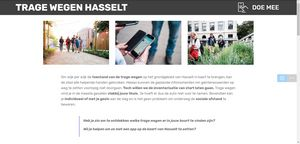
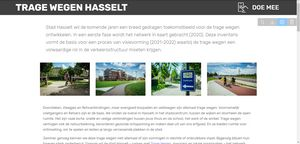
update_hokjes_18

diff --git a/index.html b/index.html
@@ -55,7 +55,7 @@
     </nav>
 </section>
 
-<section class="engine"><a href="https://mobirise.info/p">site templates free download</a></section><section class="mbr-section article content3 cid-rQbUgujYzw" id="content3-n">
+<section class="engine"><a href="https://mobirise.info/l">free website templates</a></section><section class="mbr-section article content3 cid-rQbUgujYzw" id="content3-n">
       
      
 
@@ -81,34 +81,34 @@
     <div class="container">
         
         
-        <div class="row mbr-gallery" data-toggle="modal" data-target="#s1oqM5fJw9">
+        <div class="row mbr-gallery" data-toggle="modal" data-target="#s23q5Orxsj">
             <div class="col-sm-6 col-md-4 col-lg-3 item gallery-image">
                 <div class="item-wrapper">
-                    <img class="w-100" src="assets/images/tragewegen-201908-ingedelee-199.jpg" alt="" data-slide-to="0" title="" data-target="#s1oqM5fqrZ">
+                    <img class="w-100" src="assets/images/tragewegen-201908-ingedelee-199.jpg" alt="" data-slide-to="0" title="" data-target="#s23q5OrSxY">
                 </div>
             </div>
             <div class="col-sm-6 col-md-4 col-lg-3 item gallery-image">
                 <div class="item-wrapper">
-                    <img class="w-100" src="assets/images/tragewegen-201908-ingedelee-122.jpg" alt="" data-slide-to="1" title="" data-target="#s1oqM5fqrZ">
+                    <img class="w-100" src="assets/images/tragewegen-201908-ingedelee-122.jpg" alt="" data-slide-to="1" title="" data-target="#s23q5OrSxY">
                 </div>
             </div>
             <div class="col-sm-6 col-md-4 col-lg-3 item gallery-image">
                 <div class="item-wrapper">
-                    <img class="w-100" src="assets/images/tragewegen-201908-ingedelee-131.jpg" alt="" data-slide-to="2" title="" data-target="#s1oqM5fqrZ">
+                    <img class="w-100" src="assets/images/tragewegen-201908-ingedelee-131.jpg" alt="" data-slide-to="2" title="" data-target="#s23q5OrSxY">
                 </div>
             </div><div class="col-sm-6 col-md-4 col-lg-3 item gallery-image">
                 <div class="item-wrapper">
-                    <img class="w-100" src="assets/images/tragewegen-201908-ingedelee-125.jpg" alt="" data-slide-to="3" title="" data-target="#s1oqM5fqrZ">
+                    <img class="w-100" src="assets/images/tragewegen-201908-ingedelee-125.jpg" alt="" data-slide-to="3" title="" data-target="#s23q5OrSxY">
                 </div>
             </div>
             
         </div>
 
-        <div class="modal mbr-slider fade" tabindex="-1" role="dialog" aria-hidden="true" id="s1oqM5fJw9">
+        <div class="modal mbr-slider fade" tabindex="-1" role="dialog" aria-hidden="true" id="s23q5Orxsj">
             <div class="modal-dialog" role="document">
                 <div class="modal-content">
                     <div class="modal-body">
-                        <div class="carousel slide" data-ride="carousel" id="s1oqM5fqrZ">
+                        <div class="carousel slide" data-ride="carousel" id="s23q5OrSxY">
                             <div class="carousel-inner">
                                 <div class="carousel-item active">
                                     <img class="d-block w-100" src="assets/images/tragewegen-201908-ingedelee-199.jpg" alt="">
@@ -124,18 +124,18 @@
                                 
                             </div>
                             <ol class="carousel-indicators">
-                                <li data-slide-to="0" class="active" data-target="#s1oqM5fqrZ"></li><li data-slide-to="1" class="active" data-target="#s1oqM5fqrZ"></li>
-                                <li data-slide-to="2" data-target="#s1oqM5fqrZ"></li>
-                                <li data-slide-to="3" data-target="#s1oqM5fqrZ"></li>
+                                <li data-slide-to="0" class="active" data-target="#s23q5OrSxY"></li><li data-slide-to="1" class="active" data-target="#s23q5OrSxY"></li>
+                                <li data-slide-to="2" data-target="#s23q5OrSxY"></li>
+                                <li data-slide-to="3" data-target="#s23q5OrSxY"></li>
                                 
                             </ol>
                             <a role="button" href="" class="close" data-dismiss="modal" aria-label="Close">
                             </a>
-                            <a class="carousel-control-prev carousel-control" role="button" data-slide="prev" href="#s1oqM5fqrZ">
+                            <a class="carousel-control-prev carousel-control" role="button" data-slide="prev" href="#s23q5OrSxY">
                                 <span class="mbri-left mbr-iconfont" aria-hidden="true"></span>
                                 <span class="sr-only">Vorige</span>
                             </a>
-                            <a class="carousel-control-next carousel-control" role="button" data-slide="next" href="#s1oqM5fqrZ">
+                            <a class="carousel-control-next carousel-control" role="button" data-slide="next" href="#s23q5OrSxY">
                                 <span class="mbri-right mbr-iconfont" aria-hidden="true"></span>
                                 <span class="sr-only">Volgende</span>
                             </a>
@@ -169,34 +169,34 @@
     <div class="container">
         
         
-        <div class="row mbr-gallery" data-toggle="modal" data-target="#s1oqM5gzgw">
+        <div class="row mbr-gallery" data-toggle="modal" data-target="#s23q5OsmAD">
             <div class="col-sm-6 col-md-4 col-lg-3 item gallery-image">
                 <div class="item-wrapper">
-                    <img class="w-100" src="assets/images/tragewegen-201908-ingedelee-90.jpg" alt="" data-slide-to="0" title="" data-target="#s1oqM5gt5M">
+                    <img class="w-100" src="assets/images/tragewegen-201908-ingedelee-90.jpg" alt="" data-slide-to="0" title="" data-target="#s23q5Osos9">
                 </div>
             </div><div class="col-sm-6 col-md-4 col-lg-3 item gallery-image">
                 <div class="item-wrapper">
-                    <img class="w-100" src="assets/images/tragewegen-201908-ingedelee-77.jpg" alt="" data-slide-to="1" title="" data-target="#s1oqM5gt5M">
+                    <img class="w-100" src="assets/images/tragewegen-201908-ingedelee-77.jpg" alt="" data-slide-to="1" title="" data-target="#s23q5Osos9">
                 </div>
             </div><div class="col-sm-6 col-md-4 col-lg-3 item gallery-image">
                 <div class="item-wrapper">
-                    <img class="w-100" src="assets/images/tragewegen-201908-ingedelee-170.jpg" alt="" data-slide-to="2" title="" data-target="#s1oqM5gt5M">
+                    <img class="w-100" src="assets/images/tragewegen-201908-ingedelee-170.jpg" alt="" data-slide-to="2" title="" data-target="#s23q5Osos9">
                 </div>
             </div>
             <div class="col-sm-6 col-md-4 col-lg-3 item gallery-image">
                 <div class="item-wrapper">
-                    <img class="w-100" src="assets/images/tragewegen-201908-ingedelee-163.jpg" alt="" data-slide-to="3" title="" data-target="#s1oqM5gt5M">
+                    <img class="w-100" src="assets/images/tragewegen-201908-ingedelee-163.jpg" alt="" data-slide-to="3" title="" data-target="#s23q5Osos9">
                 </div>
             </div>
             
             
         </div>
 
-        <div class="modal mbr-slider fade" tabindex="-1" role="dialog" aria-hidden="true" id="s1oqM5gzgw">
+        <div class="modal mbr-slider fade" tabindex="-1" role="dialog" aria-hidden="true" id="s23q5OsmAD">
             <div class="modal-dialog" role="document">
                 <div class="modal-content">
                     <div class="modal-body">
-                        <div class="carousel slide" data-ride="carousel" id="s1oqM5gt5M">
+                        <div class="carousel slide" data-ride="carousel" id="s23q5Osos9">
                             <div class="carousel-inner">
                                 <div class="carousel-item active">
                                     <img class="d-block w-100" src="assets/images/tragewegen-201908-ingedelee-90.jpg" alt="">
@@ -212,18 +212,18 @@
                                 
                             </div>
                             <ol class="carousel-indicators">
-                                <li data-slide-to="0" class="active" data-target="#s1oqM5gt5M"></li>
-                                <li data-slide-to="1" data-target="#s1oqM5gt5M"></li>
-                                <li data-slide-to="2" data-target="#s1oqM5gt5M"></li>
-                                <li data-slide-to="3" data-target="#s1oqM5gt5M"></li>
+                                <li data-slide-to="0" class="active" data-target="#s23q5Osos9"></li>
+                                <li data-slide-to="1" data-target="#s23q5Osos9"></li>
+                                <li data-slide-to="2" data-target="#s23q5Osos9"></li>
+                                <li data-slide-to="3" data-target="#s23q5Osos9"></li>
                             </ol>
                             <a role="button" href="" class="close" data-dismiss="modal" aria-label="Close">
                             </a>
-                            <a class="carousel-control-prev carousel-control" role="button" data-slide="prev" href="#s1oqM5gt5M">
+                            <a class="carousel-control-prev carousel-control" role="button" data-slide="prev" href="#s23q5Osos9">
                                 <span class="mbri-left mbr-iconfont" aria-hidden="true"></span>
                                 <span class="sr-only">Vorige</span>
                             </a>
-                            <a class="carousel-control-next carousel-control" role="button" data-slide="next" href="#s1oqM5gt5M">
+                            <a class="carousel-control-next carousel-control" role="button" data-slide="next" href="#s23q5Osos9">
                                 <span class="mbri-right mbr-iconfont" aria-hidden="true"></span>
                                 <span class="sr-only">Volgende</span>
                             </a>

diff --git a/page1.html b/page1.html
@@ -55,7 +55,7 @@
     </nav>
 </section>
 
-<section class="engine"><a href="https://mobirise.info/u">bootstrap responsive templates</a></section><section class="features2 cid-rQmQMGRh2Z" id="features2-2z">
+<section class="engine"><a href="https://mobirise.info/i">free web creation software</a></section><section class="features2 cid-rQmQMGRh2Z" id="features2-2z">
 
     
 
@@ -160,7 +160,7 @@
         <div class="row justify-content-center">
             <div class="media-container-column col-lg-8" data-form-type="formoid">
                 <!---Formbuilder Form--->
[2 lines of base64/hex data omitted]
                     <div class="row">
                         <div hidden="hidden" data-form-alert="" class="alert alert-success col-12">Bedankt voor jouw enthousiasme en medewerking!</div>
                         <div hidden="hidden" data-form-alert-danger="" class="alert alert-danger col-12">
@@ -209,7 +209,7 @@
 
     <figure class="mbr-figure container">
         <div class="image-block" style="width: 100%;">
-            <img src="assets/images/deelgemeenten-hokjes-nr-update-17.png" width="1400" alt="Mobirise" title="">
+            <img src="assets/images/deelgemeenten-hokjes-nr-update-18.png" width="1400" alt="Mobirise" title="">
             
         </div>
     </figure>
